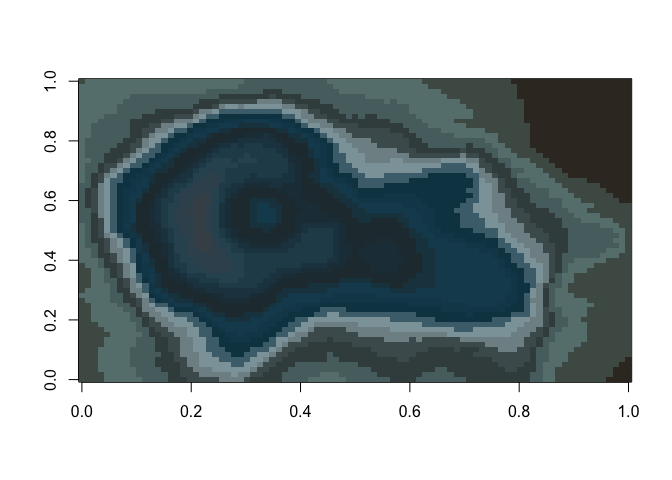
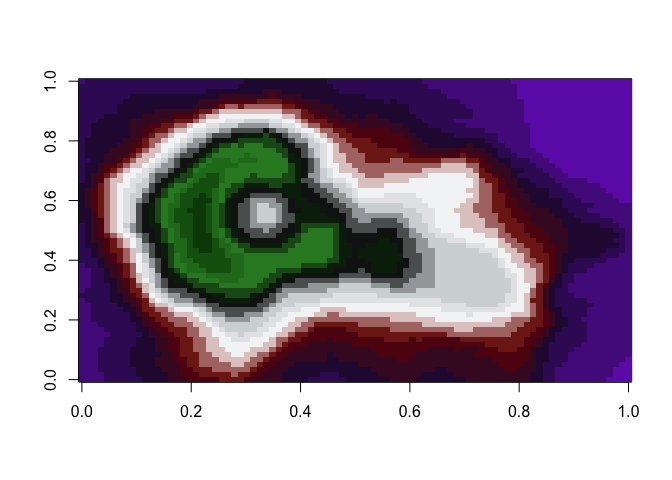
Updated images and fixed bug issues

diff --git a/README.md b/README.md
@@ -43,7 +43,7 @@ Palettes
 
 ### The Prestige (2006)
 
-Cinematography: Wally Pfister
+#### Cinematography: Wally Pfister
 
 ``` r
 nolan_palettes("Prestige1")
@@ -60,9 +60,9 @@ nolan_palettes("Prestige2")
 ### The Dark Knight (2008)
 
 <p align="center">
-<img src="figure/darkknight1.png" id="id" class="class" style="width:200.0%" style="height:100.0%" />
+<img src="figure/darkknight1.png" id="id" class="class" style="width:90.0%" style="height:90.0%" />
 </p>
-Cinematography: Wally Pfister
+#### Cinematography: Wally Pfister
 
 ``` r
 
@@ -77,7 +77,7 @@ nolan_palettes("DarkKnight1")
 <p align="center">
 <img src="figure/inception2.gif" id="id" class="class" style="width:150.0%" style="height:100.0%" />
 </p>
-Cinematography: Wally Pfister
+#### Cinematography: Wally Pfister
 
 ``` r
 nolan_palettes("Inception1")
@@ -99,8 +99,14 @@ nolan_palettes("Inception3")
 
 ### Interstellar (2014)
 
-Cinematography: Hoyte van Hoytema
+#### Cinematography: Hoyte van Hoytema
 
+<p align="center">
+<img src="figure/interstellar1.png" id="id" class="class" style="width:90.0%" style="height:90.0%" />
+</p>
+<p align="center">
+<img src="figure/interstellar2.png" id="id" class="class" style="width:90.0%" style="height:90.0%" />
+</p>
 ``` r
 nolan_palettes("Interstellar1")
 ```
@@ -149,9 +155,10 @@ nolan_palettes("Dunkirk4")
 
 ![](figure/dunkirk-3.png)
 
-``` r
+The Dark Knight 2 Color Palette (The Joker)
 
-pal <- nolan_palettes("Interstellar1", 21, type="continuous")
+``` r
+pal <- nolan_palettes("DarkKnight2", 21, type="continuous")
 image(volcano, col = pal)
 ```
 
